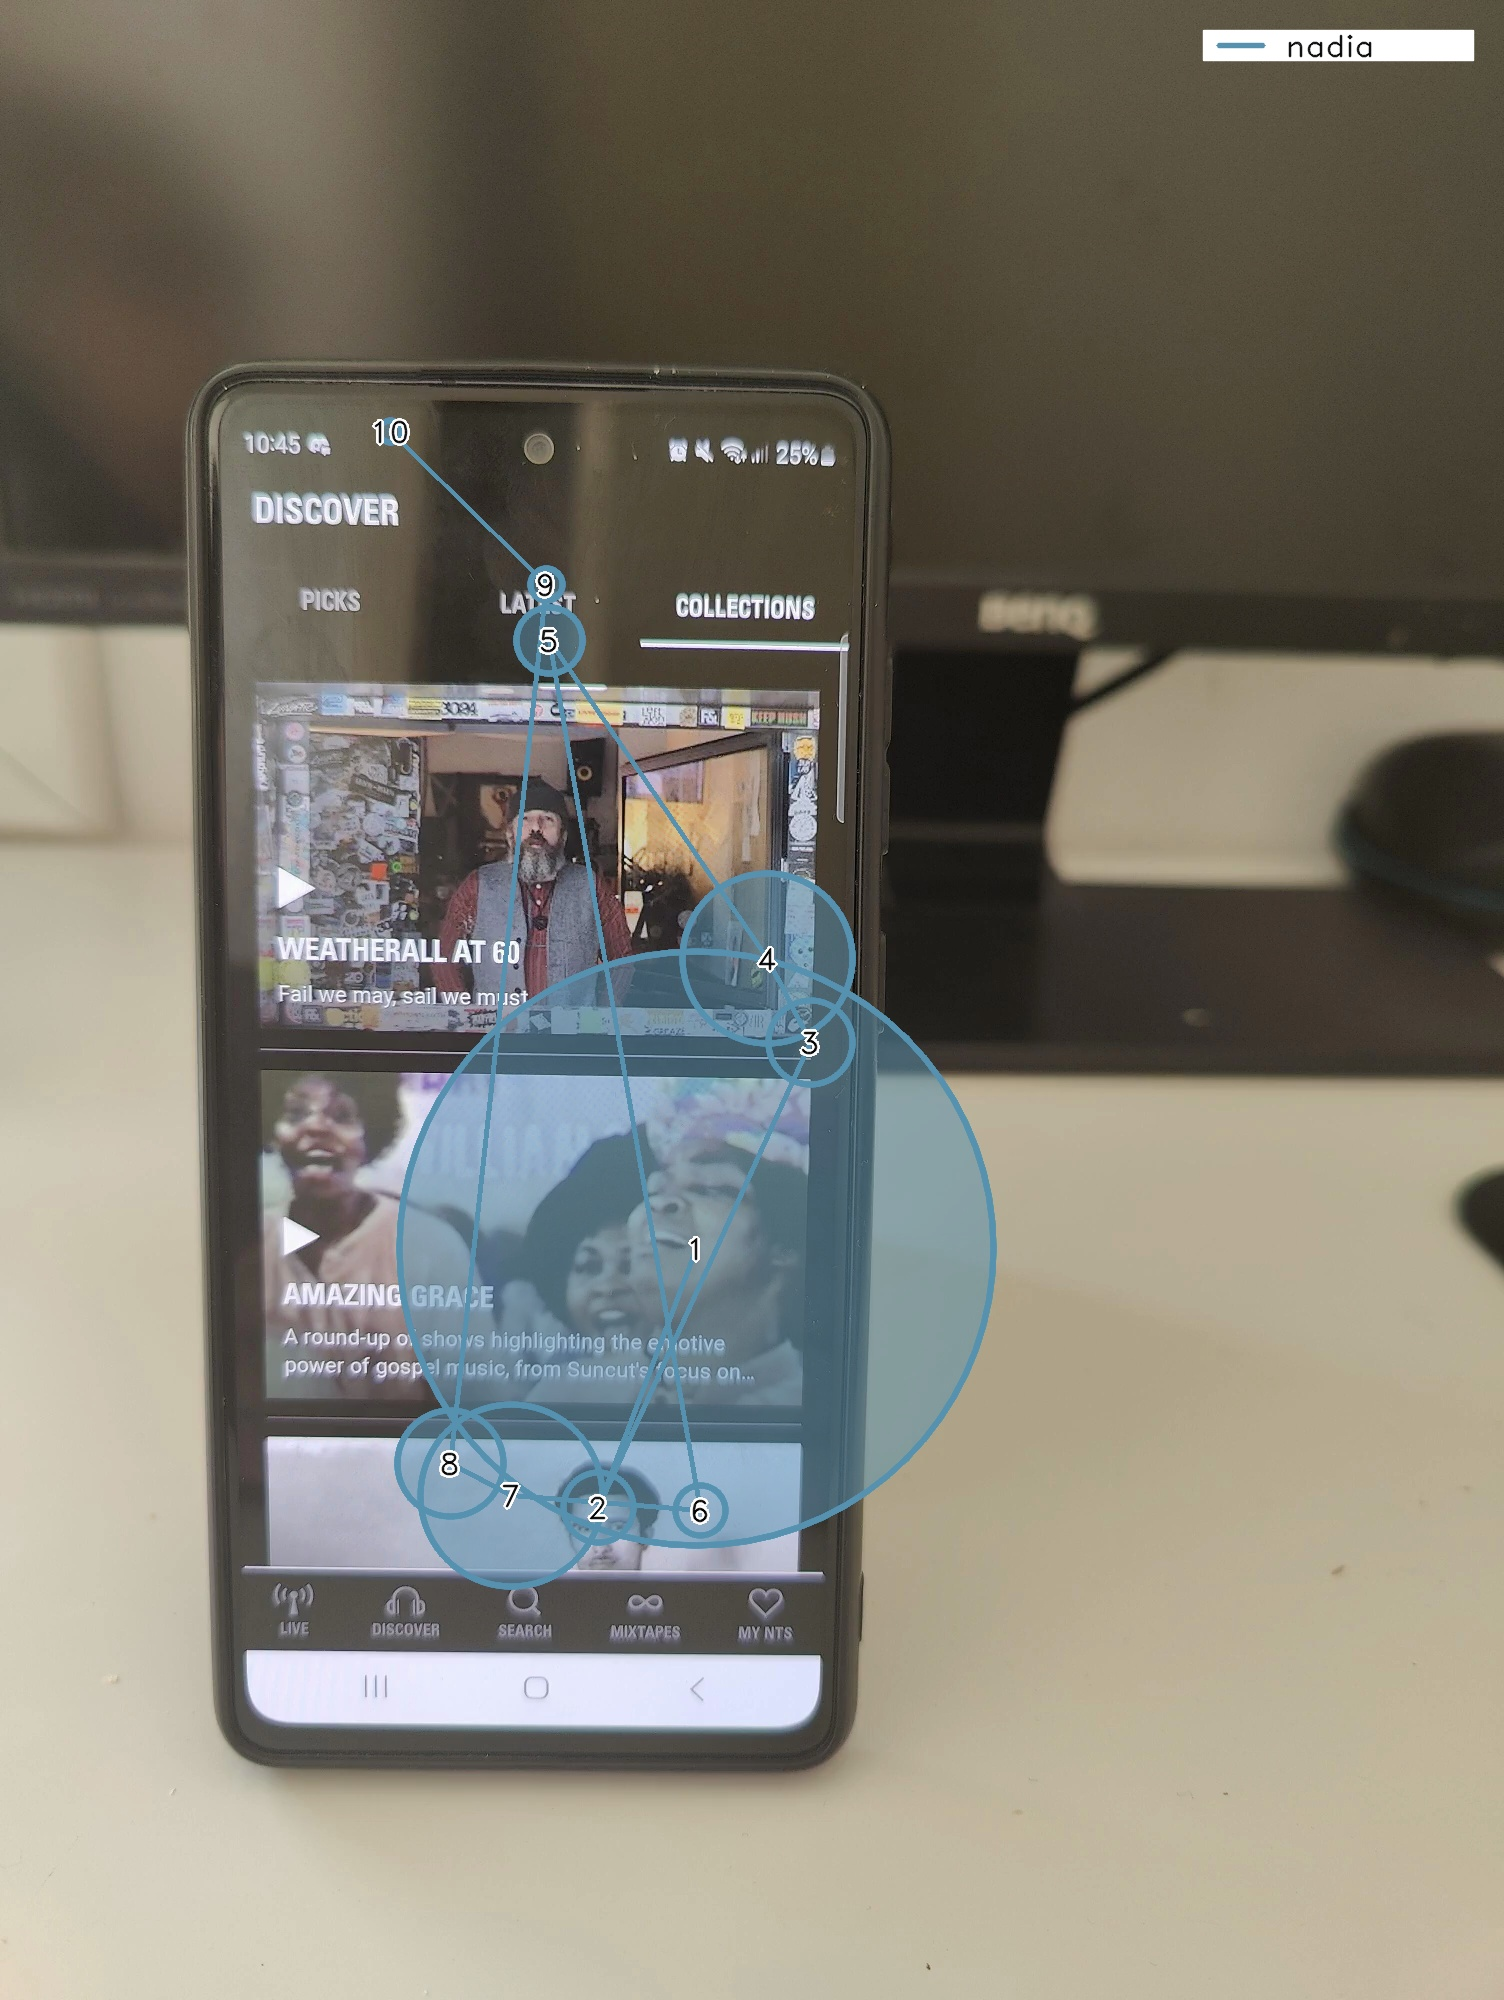
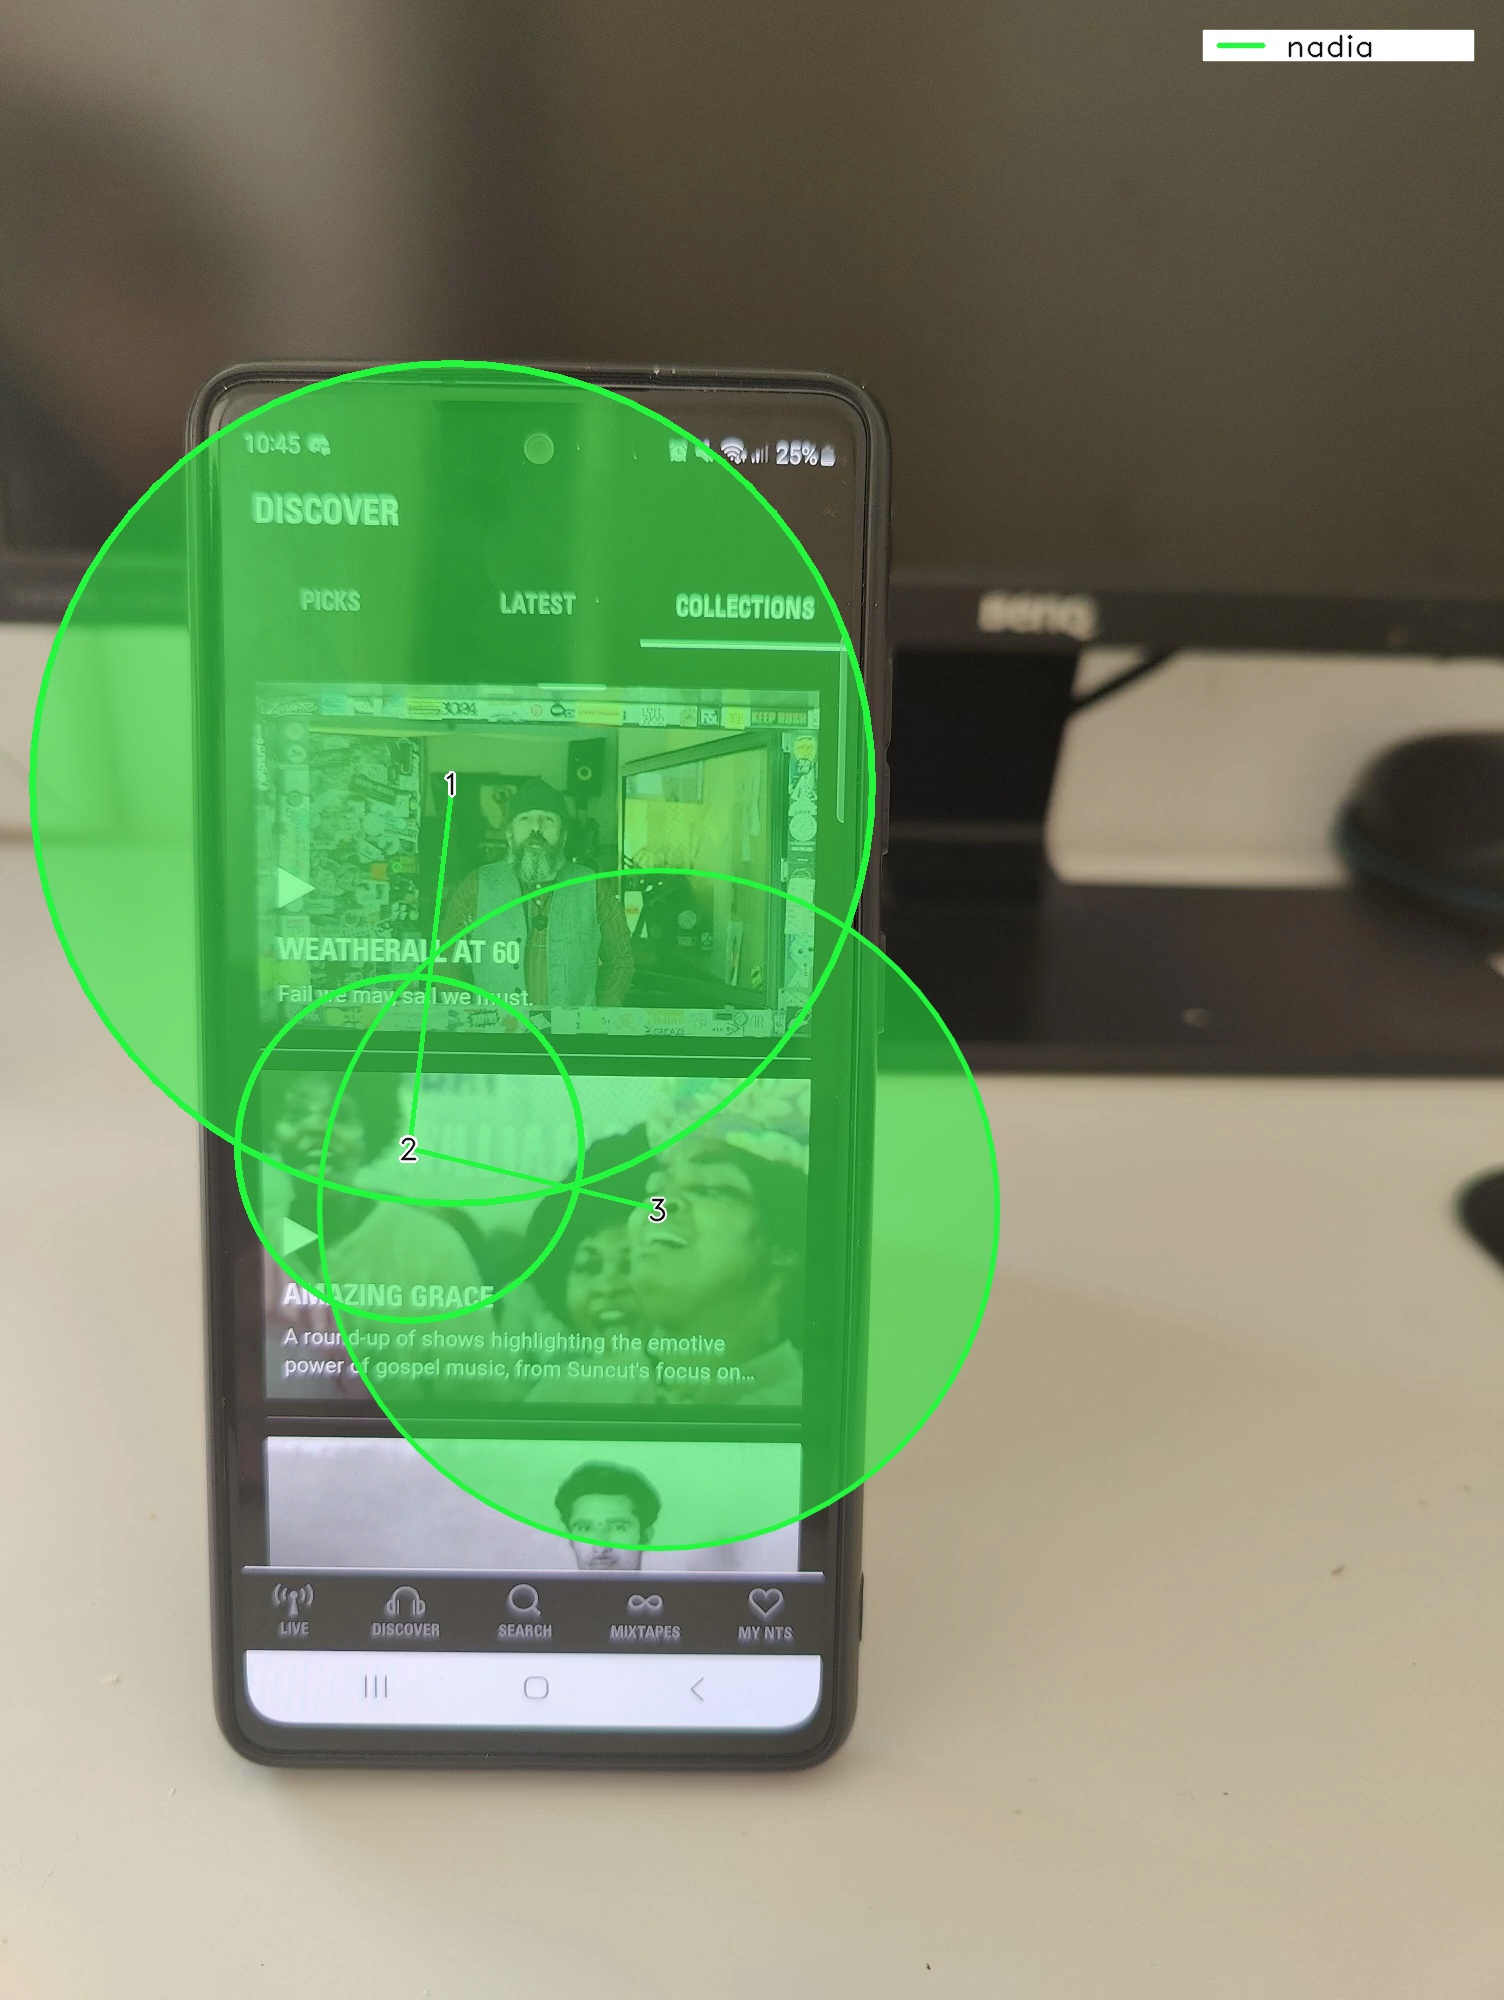
rework phone Alpha Lab

Changed region(s): [[0.0, 0.155, 0.6875, 0.806], [0.8125, 0.0, 0.8438, 0.031]]

diff --git a/alpha-lab/phone-neon/index.md b/alpha-lab/phone-neon/index.md
@@ -1,7 +1,20 @@
 ---
 title: Uncover gaze behaviour on phone screens with Neon
 description: "Evaluate Neon's accuracy on phone screens"
-permalink: /alpha-lab/phone-screens
+permalink: /alpha-lab/phone-neon
+meta:
+  - name: twitter:card
+    content: player
+  - name: twitter:image
+    content: "https://i.ytimg.com/vi/gp5O1uskDME/maxresdefault.jpg"
+  - name: twitter:player
+    content: "https://www.youtube.com/embed/gp5O1uskDME"
+  - name: twitter:width
+    content: "1280"
+  - name: twitter:height
+    content: "720"
+  - property: og:image
+    content: "https://i.ytimg.com/vi/gp5O1uskDME/maxresdefault.jpg"
 tags: [Neon, Cloud]
 ---
 
@@ -15,104 +28,76 @@ import TagLinks from '@components/TagLinks.vue'
 
 <Youtube src="gp5O1uskDME"/>
 
-Have you ever wondered what your eyes focus on when scrolling through your favourite app?
+What catches your attention and how do you visually navigate through the interface/page of a mobile app? This article shows you the tools you can use to address these questions. 
 
-In this article, we test whether Neon, our latest eye tracker, can accurately capture and characterise viewing behaviour
-while gazing at small icons on mobile applications. To achieve this, we used some of Alpha Lab's existing tutorials, including
-how to generate scanpaths, define areas of interest (AOIs) and calculate outcome metrics, and map gaze onto dynamic content.
+## Gaze behaviour during mobile app engagement
 
-Shall we start?
+Researchers in fields such as UI/UX and neuromarketing frequently investigate user visual engagement with mobile applications. Wearable eye tracking is sometimes used for this purpose as it can provide valuable insights into user experience during mobile browsing. In this article, we used our latest wearable eye tracker, Neon, to capture and analyse users' viewing behaviour when focusing on small icons and features of mobile applications.
 
-## What you'll need
+## Overcoming usability challenges with Neon
 
-Below you can find the tools we used for this project. Using these, you can replicate the content of this article with
-your own applications.
+In the past, wearable eye tracking faced challenges in usability primarily due to calibration limitations, which may have made mobile browsing measurements difficult and/or time-consuming in practice. However, we believe that Neon overcomes these obstacles by offering calibration-free gaze estimation with very good accuracy. For this reason, we wanted to try out Neon when tracking gaze during mobile browsing, and put together an article so you can replicate what we did.
 
-### Cloud enrichment
+## Leveraging Pupil Cloud and Alpha Lab Tutorials to explore user gaze dynamics
 
-- [Reference Image Mapper](https://docs.pupil-labs.com/pupil-cloud/enrichments/reference-image-mapper/)
+In order to characterise viewing behaviour on mobile phones using Neon, we first needed to make some eye tracking recordings whilst a user was engaging with a phone. We then leveraged Pupil Cloud and Alpha Lab tutorials to interpret the data and compute further metrics.
 
-### Alpha Lab tutorials
+Firstly, we placed the phone in a static position on a desk, allowing us to interact with the app.
 
-- [How to generate scanpaths](/scanpath-rim/)
-- [How to define areas of interest (AOIs) and calculate basic metrics](/gaze-metrics-in-aois/)
-- [How to map and visualise gaze onto dynamic screen content](/map-your-gaze-to-a-2d-screen/)
+Then, we used Pupil Cloud's [Reference Image Mapper](https://docs.pupil-labs.com/neon/pupil-cloud/enrichments/reference-image-mapper/) to map gaze onto a 2D reference image of the environment that contained our test phone, like in the videos and snapshots.
 
-### How we used them
+Subsequently, we exported the data to analyse offline for a more in-depth exploration. For the offline analysis, we used existing Alpha Lab tutorials that allowed us to [generate scanpaths](/scanpath-rim/), [define areas of interest (AOIs) and calculate gaze metrics](/gaze-metrics-in-aois/), and [map gaze onto dynamic content](/map-your-gaze-to-a-2d-screen/).
 
-We first used the Reference Image Mapper enrichment to create a 3D model of a phone positioned on a desk and subsequently to map gaze onto a 2D image of the phone-on-desk. Then we used Alpha Lab tutorials to process the exported results, generate advanced visualisations, and compute outcome metrics.
-
-:::tip
-:bulb:
-When preparing the Reference Image Mapper Enrichment, make sure your phone is stable on a phone mount or stand. The
-scanning video needed for this tool requires relatively static features in the environment. If there is a lot of movement
-or the objects change in appearance or shape, the mapping can fail. More on this [in the docs](https://docs.pupil-labs.com/neon/pupil-cloud/enrichments/reference-image-mapper/#setup)!
-:::
-
-## Gaze behaviour on mobile apps: Insights from Neon
+The following section presents the results of our analyses, each accompanied by a brief description for clarity.
 
 ### Heatmaps and scanpaths
 
-What catches your attention and how do you visually navigate through the interface/page of a mobile app?
+<div style="margin-top: 20px;"></div>
 
-Two visualisations that help to illustrate these patterns are heatmaps and scanpaths (left and right panel below). Heatmaps show the areas of the app that receive the most attention, with warmer colours indicating more fixations, and can be generated natively in Pupil Cloud. Meanwhile, scanpaths trace the path of the eye movements, showing the sequence of fixations and eye movements that occur during the visual exploration. The circle size of the scanpath below reflects fixation duration: The bigger the circle, the longer the user fixated on this area of the screen. Use the scanpath tutorial linked above to generate this visualisation.
-
-<div class="mcontainer">
-  <div class="col-mcontainer">
-
-![Saliency map over a phone screen](./1.phone-heatmap.jpeg)
-
-  </div>
-  <div class="col-mcontainer">
-
-![Scanpath over a phone screen](./2.phone-nadia_scanpath.jpeg)
-
-  </div>
+<div class="grid grid-cols-2 gap-4">
+    <div class="image-column">
+        <img src="./1.phone-heatmap.jpeg" alt="Saliency map over a phone screen" class="image">
+    </div>
+    <div class="image-column">
+        <img src="./2.phone-nadia_scanpath.jpeg" alt="Scanpath over a phone screen" class="image">
+    </div>
 </div>
 
-### Calculation of gaze metrics on AOIs
+<div style="margin-bottom: 20px;"></div>
 
-Analysing eye tracking data can provide valuable insights into user behaviour, but simply looking at visualisations like
-heatmaps and scanpaths may not always reveal the full story. This is why we opted for a quantitative analysis of our data
-as well by calculating gaze metrics, such as [dwell time](/gaze-metrics-in-aois/#dwell-time) and
-[time to first contact](/gaze-metrics-in-aois/#time-to-first-contact). These metrics offer tangible and
-quantitative outcomes about the salience of each AOI: Longer dwell time implies longer total fixation on a specific AOI
-and could be considered as a proxy of attentional allocation. Conversely, the shorter the time to first contact, the faster
-this AOI captured the user's attention, pointing to increased salience of this area. Follow along with the AOI tutorial
-for these calculations and charts!
+Two valuable visualisations for understanding gaze behaviour on mobile screens are heatmaps and scanpaths (left and right images, respectively).
+
+Heatmaps visually represent the app areas that receive the most attention, with warmer colours denoting higher fixation rates. These heatmaps can be easily generated within Pupil Cloud using the Reference Image Mapper.
+
+Meanwhile, scanpaths depict the sequence of eye movements and fixations during visual exploration. The circle size in the scanpath corresponds to fixation duration; larger circles indicate longer user focus on specific screen areas. In the example provided, the focus was primarily on the top panel of the app, as indicated by the largest fixation circle among the three fixations used to generate this scanpath. For those interested in generating this visualisation, our [scanpath tutorial](/scanpath-rim/) provides a step-by-step guide.
+
+### Calculation of gaze metrics on AOIs
 
 ![Graph showing dwell time on defined AOIs over the phone screen](./3.phone-dwell-time.png)
 
 ![Graph showing time to first contact on defined AOIs over the phone screen](./4.phone-first-contact.png)
 
+Examining eye tracking data provides valuable insights into user behaviour, but relying solely on visualisations like heatmaps and scanpaths might not always reveal the complete picture. To gain a more comprehensive understanding, we conducted a quantitative analysis of our data. This involved calculating gaze metrics such as dwell time and time to first contact. These metrics offer tangible and quantitative outcomes about the salience of each AOI.
+
+Dwell time signifies the total duration of fixation on a specific AOI, serving as an indicator of attentional allocation. Longer dwell times suggest prolonged focus on an AOI. On the other hand, the time to first contact measures how quickly an AOI captures a user's attention, indicating its prominence. 
+
+As shown in this example, there are clear differences between the areas of interest in both attentional allocation and salience that became evident thanks to the quantitative analysis that focused on the measures mentioned earlier. In line with the heatmap and scanpath visualizations, it is evident that dwell time is higher in AOI-1 compared to the other two areas of interest. Additionally, the time to first contact metric revealed that users directed their attention more swiftly towards AOI-0.
+
+For a detailed explanation and visual representation of these metrics, you can refer to our [AOI tutorial](/gaze-metrics-in-aois/), which provides step-by-step instructions and charts for your analysis.
+
 ### Map your gaze onto dynamic phone screen content
-
-So far, we've only scratched the surface by examining static images. Now, it's time to dive into the dynamic world of
-our smartphones and explore gaze behaviour more naturally while scrolling. Use the dynamic screen mapping tutorial for this one!
-
-Checking out the recording, Neon's accuracy richly captures gaze behaviour and provides a nice high-level overview of
-what the wearer was looking at.
-
-Visualisations are great, but the real power of this tool is that it generates a CSV file containing gaze data mapped
-onto the screen, in 2D x, y coordinates. This offers many possibilities for further customisation and in-depth analysis.
 
 <Youtube src="RKrf3YQjzao"/>
 
-## In the wild
+Until now, the tools that we have used have been limited to mapping gaze onto static images. However, the dynamic realm of mobile phones makes it important to study gaze behaviour in a more natural context, particularly during scrolling. We, therefore, used the [dynamic screen mapping tutorial](/map-your-gaze-to-a-2d-screen/) for this purpose. This approach provided a more comprehensive understanding of gaze behaviour in dynamic interfaces.
 
-That's all fine, but what does it look like to interact with phone screens when out and about? Consider this scenario:
-Imagine searching for products on your mobile app while looking at the physical products on a supermarket shelf. We
-brought Neon into the wild to assess its performance beyond controlled environments. See an example of real-world user
-behaviour below!
+Upon reviewing the recording, Neon demonstrated good accuracy in capturing gaze behaviour, offering a useful high-level overview of the wearer's focal points.
 
-<Youtube src="enkOC7_wf0U"/>
+Another very useful facet of this tool is its ability to generate a CSV file containing gaze data mapped onto the screen, represented in 2D x, y coordinates. This feature opens avenues for extensive customisation and more in-depth analysis, which we don’t cover here.
 
 ## Let's wrap it up!
 
-This article has unveiled the remarkable capability of Neon's calibration-free eye tracking to capture
-viewing behaviour during mobile app interactions - both inside and out and about. This tutorial, and its outcomes,
-are not limited to our specific use case and could be particularly useful for other types of UI/UX research. By combining
-Neon with the techniques we've highlighted here, you can gain invaluable insights into user engagement.
+Overall, we were impressed by Neon's capability to effectively characterise viewing behaviour on mobile apps, especially considering its calibration-free nature. The techniques outlined in this tutorial are not confined to our specific application; they hold significant value for various UI/UX and neuromarketing research endeavours. By integrating Neon with the methodologies discussed here, researchers can acquire invaluable insights into user engagement.
 
 Curious about how Neon can fit into your work? Need assistance in implementing your own analysis pipelines? Reach out to
 us [by email](mailto:info@pupil-labs.com) or visit our [Support Page](https://pupil-labs.com/products/support/)!
